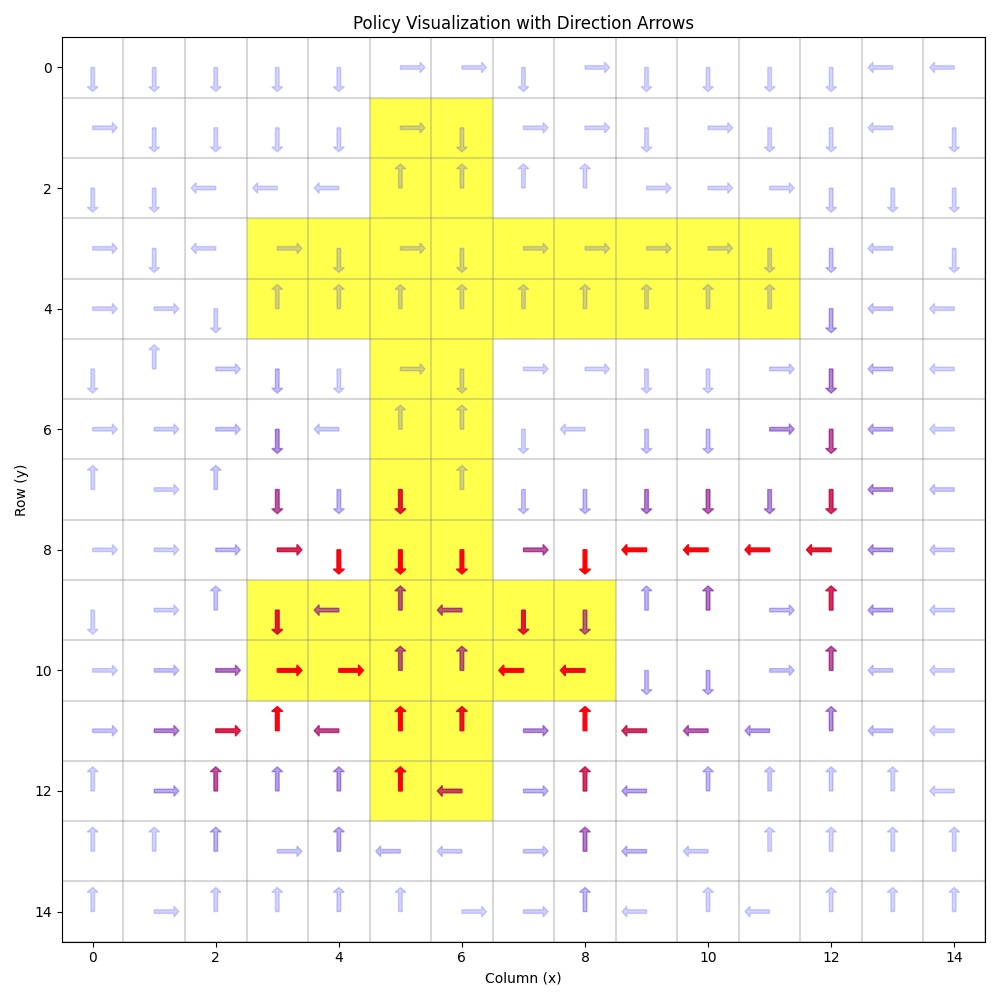
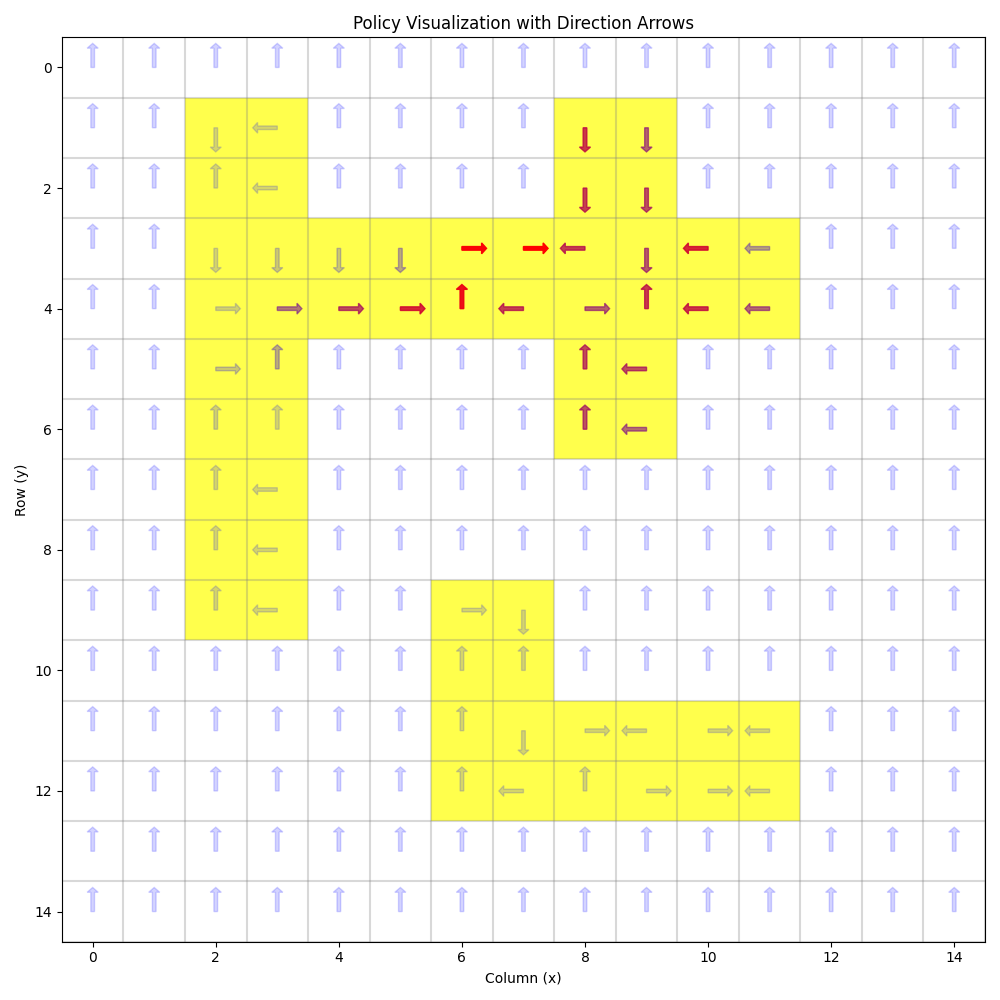
joint goal partition training

diff --git a/project/boolean_task.py b/project/boolean_task.py
@@ -30,9 +30,21 @@ class GoalOrientedBase:
 
     def _save_progress(self):
         pass
-    
-    def _add_goal(self, state):
-        self.G.add(tuple(state.numpy()))
+
+    def _partition_goals(self):
+        groups = []
+        for gr, region in self.goal_regions:
+            i = 0
+            while i < len(groups):
+                if torch.any(region & groups[i][0]):
+                    mask, members = groups.pop(i)
+                    groups.append((mask | region, members + [gr]))
+                    break
+                i += 1
+            else:
+                groups.append((region, [gr]))
+
+        return groups
 
     def select_action(self, *args):
         raise NotImplementedError()
@@ -60,7 +72,7 @@ class GoalOrientedBase:
                         all_reached_gr = []
                         training_finished = False
                         if done >= 2:
-                            for i, mask in self.goal_regions:
+                            for i, mask in goal_regions:
                                 if mask[next_state[0], next_state[1]]:
                                     all_reached_gr.append(i)
                             if not all_reached_gr:
@@ -88,61 +100,54 @@ class GoalOrientedBase:
                     self.epsilon = max(self.epsilon * self.decay_rate, 0.05)
                 print(f"Iteration {iteration} Goal switch why {done_rate}, epsilon {self.epsilon:.2f}")
 
-        self.env._first_restriction = True
-        self.epsilon = epsilon  # reset epsilon
         # This section is for training within goal starting points, reaching different goals or no goals are encouraged.
         print(f"Beginning training within goal starting points")
-        done_rate = 0
-        for episode in range(1,1201):
-            state = self.env.start(restriction=torch.where(self.env.terrain>=2, 1, 0))
-            mis_coverage = []
-            all_start_gr = []
-            for gr, mask in goal_regions:
-                if mask[state[0], state[1]]:
-                    all_start_gr.append(gr)
-                else:
-                    mis_coverage.append(gr)
-            if not all_start_gr:
-                raise ValueError("Not in any goal region, why?")
+        # Create groups of overlapping goal regions
+        goal_groups = self._partition_goals()
+        for gmask, members in goal_groups:
+            self.epsilon = epsilon  # reset epsilon
+            self.env._first_restriction = True
+            for iteration in range(num_iterations):
+                random.shuffle(members)
+                for m in members:
+                    done_rate = 0
+                    for episode in range(1,num_episodes+1):
+                        state = self.env.start(restriction=gmask)
+                        steps = 0
+                        while steps < max_steps_per_episode:
+                            action = self.select_action(state, m)
+                            next_state, reward, done = self.env.step(action)
 
-            steps = 0
-            while steps < max_steps_per_episode/2:
-                action = self.select_action(state, mis_coverage)
-                next_state, reward, done = self.env.step(action)
-                training_finished = True
-                all_reached_gr = []
-                if done >= 2:
-                    all_reached_gr = [gr for gr, mask in goal_regions if mask[next_state[0], next_state[1]]]
-                    if not all_reached_gr:
-                        raise ValueError("Goal not reached, why done >= 2? Should check the code.")
-                    elif not any(gr in mis_coverage for gr in all_reached_gr):
-                        # Reached some goals different from the starting goals, elk is still encouraged, reward unchanged.
-                        if len(all_reached_gr) < len(all_start_gr):
-                            reward = -1
+                            all_reached_gr = []
+                            training_finished = True
+                            if done >= 2:
+                                for i, mask in goal_regions:
+                                    if mask[next_state[0], next_state[1]]:
+                                        all_reached_gr.append(i)
+                                if not all_reached_gr:
+                                    raise ValueError("Goal not reached, why done >= 2? Should check the code.")
+                                elif m not in all_reached_gr:
+                                    reward = 0
+                                    training_finished = False
+                                    all_reached_gr = []
+                            else:
+                                all_reached_gr = list(range(len(self.goal_regions)))
+                                reward = -10
+
+                            self._train(state, action, reward, next_state, all_reached_gr)
+                            if training_finished: 
+                                success = 1 if done >= 2 else 0
+                                done_rate = (done_rate*episode+success) / (episode+1)
+                                break
+
+                            state = next_state
+                            steps += 1     
                         else:
-                            reward = 0
-                            training_finished = False
-                        all_reached_gr = []
-                else:
-                    all_reached_gr = list(range(len(self.goal_regions)))
-                    reward = -10
+                            done_rate = (done_rate*episode) / (episode+1)
+                    
+                        self.epsilon = max(self.epsilon * self.decay_rate, 0.05)
+                    print(f"Interior {iteration} Goal {m} why {done_rate}, epsilon {self.epsilon:.2f}")
 
-                self._train(state, action, reward, next_state, all_reached_gr)
-
-                if training_finished:
-                    done_rate = (done_rate*steps+1) / (steps+1)
-                    break
-
-                state = next_state
-                steps += 1
-                
-            else:
-                done_rate = (done_rate*steps) / (steps+1)
-
-            self.epsilon = max(self.epsilon * self.decay_rate, 0.05)
-            if episode % 200 == 0:
-                print(f"Episode {episode}, why {done_rate} epsilon {self.epsilon:.2f}")
- 
         self.epsilon = epsilon  # reset epsilon eventually, training is done for elk
 
     def q_compose(self, mask):
@@ -396,35 +401,7 @@ class GoalOrientedNAF(GoalOrientedBase):
 if __name__ == "__main__":
     # Initialize the environment and agent
     agent = GoalOrientedQLearning(
-        room=load_room("saved_disc", "9room.pt", 4),
+        room=load_room("saved_disc", "overlap.pt", 4),
         pretrained=False,
     )
-    # agent = GoalOrientedNAF(
-    #     room=load_room('saved_cont', 'road.pt', 0),
-    #     goal_resolution=5
-    # )
-    
-    # Train the agent
-    agent.env.start()
-    rewards = agent.train_episodes(num_episodes=501, max_steps_per_episode=40)
-    mask = agent.env.goals["goal_2"]
-    agent.visualize_policy_with_arrows(mask, "9room_goal_2")
-    # agent.test_policy(mask, [8,1])
-    # # Plot learning curve
-    # plt.figure(figsize=(10, 5))
-    # plt.plot(rewards)
-    # plt.title('Learning Curve')
-    # plt.xlabel('Episode')
-    # plt.ylabel('Total Reward')
-    # plt.grid(True)
-    # plt.savefig('learning_curve.png')
-    # plt.show()
-    
-    # # Visualize the learned policy
-    # agent.visualize_policy()
-    
-    # # Test the policy from different starting points
-    # test_starts = [(0, 0), (15, 0), (29, 0)]
-    # for start in test_starts:
-    #     print(f"\nTesting from start position: {start}")
-    #     agent.test_policy(start)
+    print([group[1] for group in agent._partition_goals()])

diff --git a/project/learning.py b/project/learning.py
@@ -185,7 +185,7 @@ class DFA_dijkstra(DFA_Task):
         pass
 
 if __name__ == "__main__":
-    elk_name = "overlap"
+    elk_name = "9room"
     room = load_room("saved_disc", f"{elk_name}.pt", 4)
     if 'starting' in room.goals:
         starting = room.goals.pop('starting')
